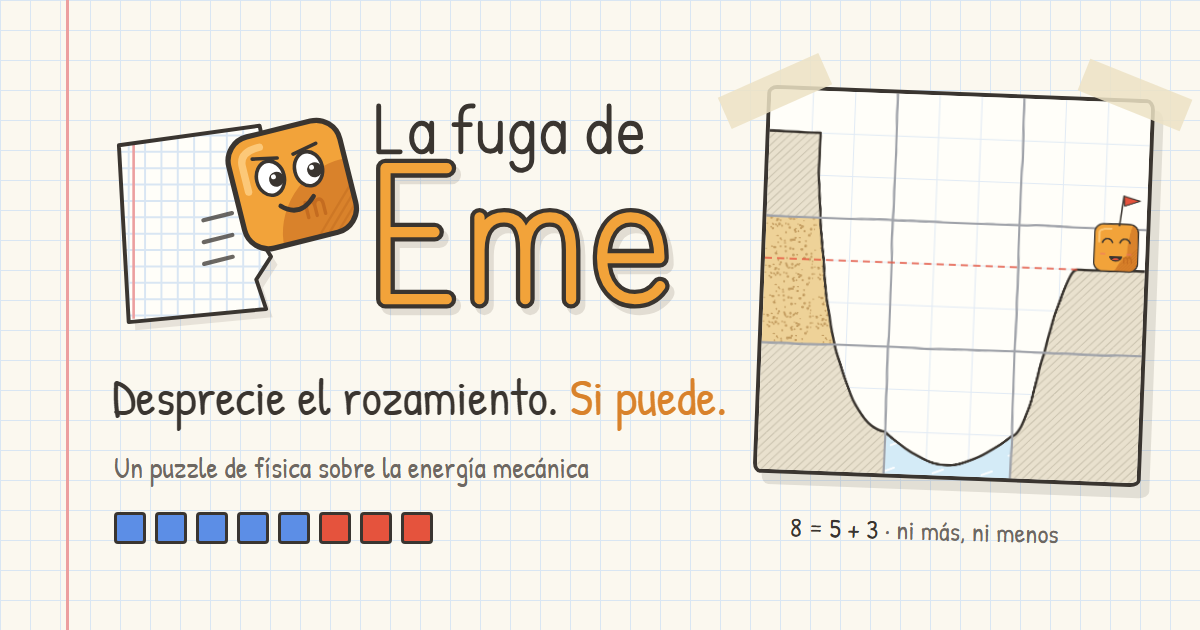
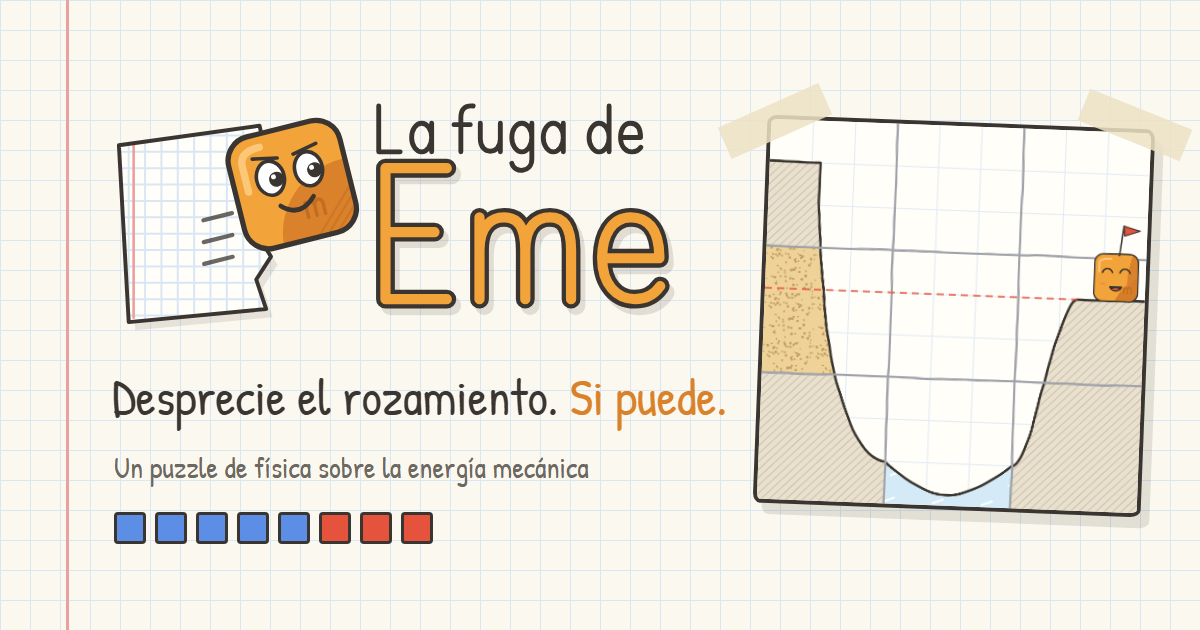
Imagen para compartir sin la cuenta «8 = 5 + 3»
Se quita el pie con la cuenta y se centra en vertical el tablero.

Changed region(s): [[0.5858, 0.0905, 1.0, 0.8746], [0.74, 0.4524, 0.7708, 0.4825]]

diff --git a/arte/compartir.html b/arte/compartir.html
@@ -27,17 +27,15 @@
     .julitos i { width: 32px; height: 32px; border: 3px solid var(--lapiz); border-radius: 4px; box-sizing: border-box; }
     .ep { background: #5c8ee6; } .ec { background: #f7d046; } .calor { background: #e5533d; }
     .tarjeta {
-      position: absolute; left: 760px; top: 92px; width: 380px; height: 380px;
+      position: absolute; left: 760px; top: 122px; width: 380px; height: 380px;
       border: 4px solid var(--lapiz); border-radius: 10px 8px 11px 7px / 8px 11px 7px 10px;
       background: #fffef9; box-shadow: 9px 11px 0 rgba(80, 70, 60, 0.14);
       transform: rotate(2.2deg); overflow: hidden;
     }
     .tarjeta canvas { display: block; width: 100%; height: 100%; }
     .cinta { position: absolute; width: 110px; height: 34px; background: rgba(236, 226, 196, 0.85); }
-    .c1 { left: 720px; top: 74px; transform: rotate(-24deg); }
-    .c2 { left: 1080px; top: 78px; transform: rotate(22deg); }
-    .pie { position: absolute; left: 790px; top: 512px; margin: 0; font-size: 27px; color: var(--suave); transform: rotate(1.5deg); }
-    .pie b { font-weight: normal; color: var(--lapiz); }
+    .c1 { left: 720px; top: 104px; transform: rotate(-24deg); }
+    .c2 { left: 1080px; top: 108px; transform: rotate(22deg); }
   </style>
 </head>
 <body>
@@ -47,7 +45,6 @@
   <div class="julitos"><i class="ep"></i><i class="ep"></i><i class="ep"></i><i class="ep"></i><i class="ep"></i><i class="calor"></i><i class="calor"></i><i class="calor"></i></div>
   <div class="tarjeta"><canvas id="tablero"></canvas></div>
   <div class="cinta c1"></div><div class="cinta c2"></div>
-  <p class="pie"><b>8 = 5 + 3</b> · ni más, ni menos</p>
 
   <script type="module">
     import { NIVEL } from '../js/nivel.js';
